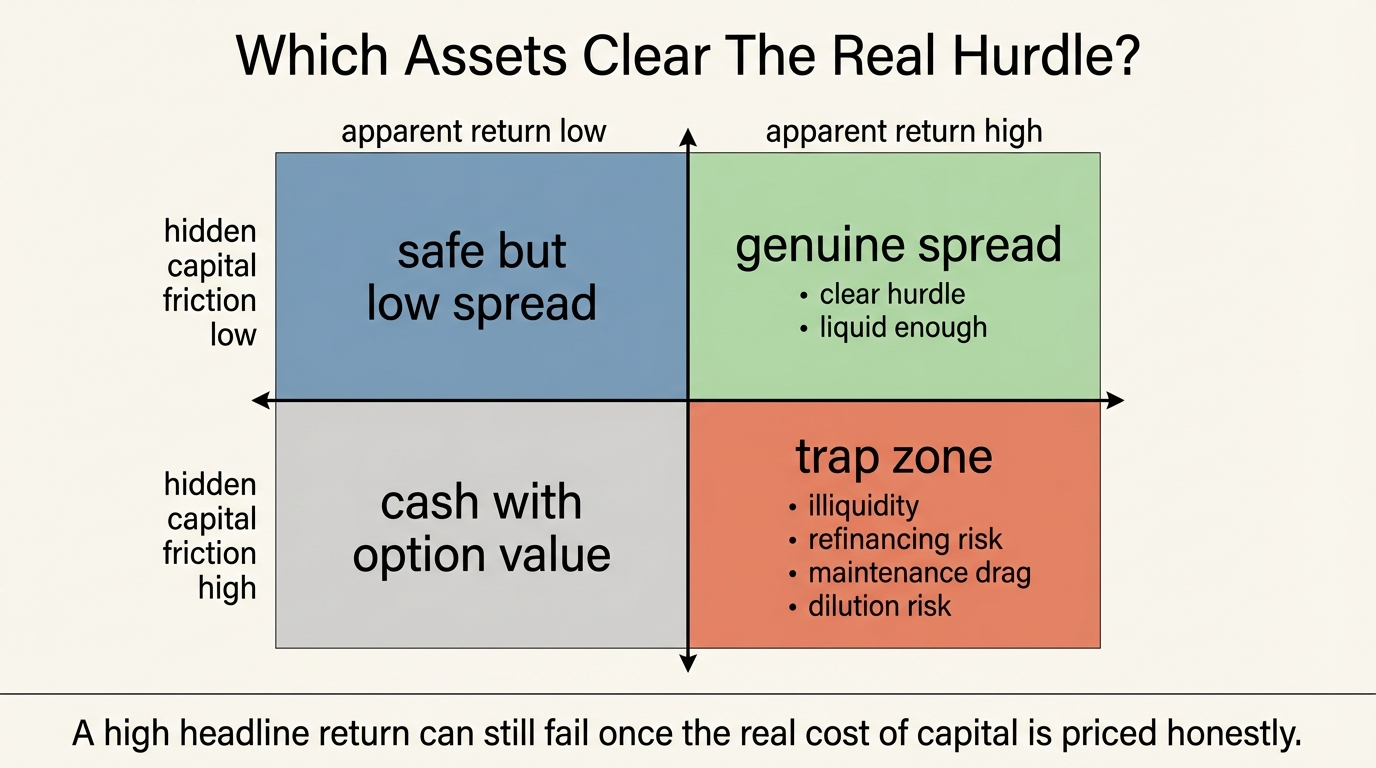
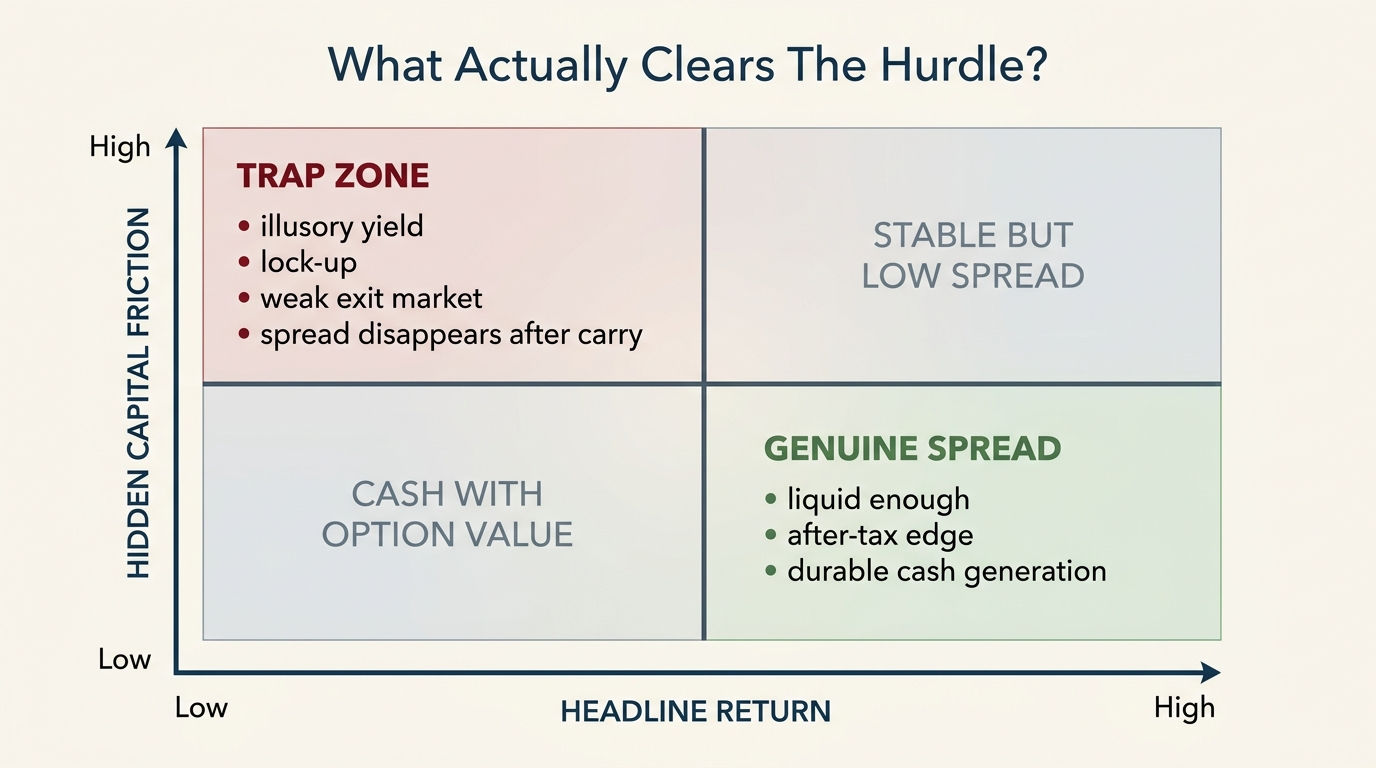
Refresh cost-of-capital longform

diff --git a/cost-of-capital-trap.html b/cost-of-capital-trap.html
@@ -90,7 +90,7 @@
     <p>The household version is similar. A homebuyer can correctly observe a mortgage rate and still underprice ownership because taxes, repairs, reserves, and transaction costs are not being capitalized honestly. A private-markets investor can understand that capital is locked for years and still underprice the opportunity cost of not having liquid reserves when better assets or personal shocks appear. The failure is not ignorance of rates. It is incomplete pricing of capital itself.</p>
 
     <h2>Housing Is One Of The Clearest Examples</h2>
-    <p>Housing debates often get trapped in price language. Is the house expensive. Is the rent too high. That framing is weaker than the underlying economics. User-cost research in housing has long argued that the relevant question is not only price, but the full annualized cost of owning the housing service stream, including financing, taxes, depreciation, maintenance, and expected price dynamics. Poterba's owner-occupied housing framework made this point decades ago, and later work continued to show that tenure choice becomes clearer when uncertainty and user cost are modeled directly.</p>
+    <p>Housing debates often get trapped in price language. The common questions are whether the house looks expensive and whether the rent looks too high. That framing is weaker than the underlying economics. User-cost research in housing has long argued that the relevant question is not only price, but the full annualized cost of owning the housing service stream, including financing, taxes, depreciation, maintenance, and expected price dynamics. Poterba's owner-occupied housing framework made this point decades ago, and later work continued to show that tenure choice becomes clearer when uncertainty and user cost are modeled directly.</p>
 
     <p>That is why a household can be correct that mortgage rates matter and still make a bad ownership decision. The cost-of-capital trap in housing appears when buyers treat the mortgage rate as the whole hurdle and neglect the capital tied up in down payment, maintenance reserves, property-tax exposure, mobility loss, and the return that same capital could have earned elsewhere. WealthMeter readers already see parts of this in the rent-versus-buy reversal and mortgage lock-in problems. The missing layer is that both are expressions of the same capital-pricing mistake.</p>
 
@@ -113,7 +113,7 @@
 
     <p>This is why the cost-of-capital trap often pairs with the liquidity illusion. Investors focus on the cost of holding cash and ignore the cost of not having it. The latter includes forced selling, inability to refinance, missed dislocations, and weaker bargaining power during personal or market stress. Capital that is liquid can be redeployed into high-spread opportunities precisely when trapped capital cannot move.</p>
 
-    <p>The relevant question is therefore comparative. Is cash under-earning relative to low-risk alternatives, or is it appropriately earning an option value that supports the rest of the balance sheet. A spreadsheet that only compares nominal yields will often answer that question incorrectly.</p>
+    <p>The relevant question is therefore comparative. Is cash under-earning relative to low-risk alternatives, or is it appropriately earning an option value that supports the rest of the balance sheet? A spreadsheet that only compares nominal yields will often answer that question incorrectly.</p>
 
     <h2>Where Households Misprice The Hurdle Most Often</h2>
     <ul>

diff --git a/scripts/generate_2026_04_17_wealthmeter_longform_images_nanobanana.py b/scripts/generate_2026_04_17_wealthmeter_longform_images_nanobanana.py
@@ -1,0 +1,161 @@
+#!/usr/bin/env python3
+"""Generate Nano Banana Pro visuals for the 2026-04-17 WealthMeter longform article."""
+
+from __future__ import annotations
+
+import argparse
+import base64
+import json
+import os
+import time
+from pathlib import Path
+from typing import Any
+from urllib.error import HTTPError, URLError
+from urllib.request import Request, urlopen
+
+ROOT = Path(__file__).resolve().parents[1]
+OUT_DIR = ROOT / "images" / "longform"
+ARTIFACT_DIR = ROOT / "output" / "review" / "longform-pair-2026-04-17" / "wealthmeter-nanobanana"
+OUT_DIR.mkdir(parents=True, exist_ok=True)
+ARTIFACT_DIR.mkdir(parents=True, exist_ok=True)
+
+API_URL_TMPL = (
+    "https://generativelanguage.googleapis.com/v1beta/models/"
+    "nano-banana-pro-preview:generateContent?key={api_key}"
+)
+
+STYLE_BLOCK = (
+    "Institutional editorial infographic only. Use a clean white or warm-white background. "
+    "Use only crisp, highly legible sans typography. Minimalist systems aesthetic. "
+    "No logos, no watermarks, no decorative clutter, no fake user-interface chrome, no photorealism. "
+    "Landscape 16:9 format, publication quality, with labels large enough to read."
+)
+
+PROMPTS: list[dict[str, str]] = [
+    {
+        "name": "cost-of-capital-hurdle-stack.png",
+        "title": "Cost of Capital Hurdle Stack Refresh",
+        "prompt": (
+            "Create a 16:9 editorial stack diagram titled "
+            "'The Real Cost Of Capital'. "
+            "Use six clean horizontal layers labeled "
+            "'headline rate', 'credit spread or equity premium', 'tax drag', "
+            "'fees and maintenance carry', 'liquidity lock-up', and 'refinancing or exit risk'. "
+            "Place three side callouts pointing to the full stack labeled "
+            "'housing', 'private funds', and 'operating business capital'. "
+            "Add a footer line reading 'Assets fail when returns clear the sticker price but not the full hurdle.'"
+        ),
+    },
+    {
+        "name": "cost-of-capital-allocation-grid.png",
+        "title": "Cost of Capital Allocation Grid Refresh",
+        "prompt": (
+            "Create a 16:9 editorial matrix titled "
+            "'What Actually Clears The Hurdle?'. "
+            "Use a 2x2 grid with horizontal axis 'headline return' and vertical axis 'hidden capital friction'. "
+            "Label the quadrants 'stable but low spread', 'genuine spread', 'cash with option value', and 'trap zone'. "
+            "Inside the trap zone include concise labels 'illusory yield', 'lock-up', 'weak exit market', and 'spread disappears after carry'. "
+            "Inside the genuine spread zone include 'liquid enough', 'after-tax edge', and 'durable cash generation'. "
+            "Keep the layout crisp, calm, and highly legible."
+        ),
+    },
+]
+
+
+def payload(prompt_text: str) -> dict[str, Any]:
+    return {
+        "contents": [{"parts": [{"text": prompt_text}]}],
+        "generationConfig": {"responseModalities": ["TEXT", "IMAGE"]},
+    }
+
+
+def call_model(api_key: str, prompt_text: str) -> dict[str, Any]:
+    req = Request(
+        API_URL_TMPL.format(api_key=api_key),
+        data=json.dumps(payload(prompt_text)).encode("utf-8"),
+        headers={"Content-Type": "application/json"},
+        method="POST",
+    )
+    with urlopen(req, timeout=240) as resp:
+        return json.loads(resp.read().decode("utf-8"))
+
+
+def extract_image_bytes(resp: dict[str, Any]) -> bytes | None:
+    for cand in resp.get("candidates", []):
+        content = cand.get("content", {})
+        for part in content.get("parts", []):
+            inline = part.get("inlineData") or part.get("inline_data")
+            if inline and inline.get("data"):
+                return base64.b64decode(inline["data"])
+    return None
+
+
+def extract_text(resp: dict[str, Any]) -> str:
+    chunks: list[str] = []
+    for cand in resp.get("candidates", []):
+        content = cand.get("content", {})
+        for part in content.get("parts", []):
+            if "text" in part:
+                chunks.append(part["text"])
+    return "\n".join(chunks).strip()
+
+
+def main() -> int:
+    parser = argparse.ArgumentParser()
+    parser.add_argument("--api-key", default=os.getenv("GOOGLE_API_KEY", ""))
+    parser.add_argument("--sleep", type=float, default=1.5)
+    parser.add_argument("--max-retries", type=int, default=3)
+    args = parser.parse_args()
+
+    if not args.api_key:
+        raise SystemExit("Missing API key. Set GOOGLE_API_KEY or pass --api-key.")
+
+    ok = 0
+    for idx, item in enumerate(PROMPTS, start=1):
+        prompt_text = f"Create an infographic. {item['title']}. {item['prompt']} {STYLE_BLOCK}"
+        out_png = OUT_DIR / item["name"]
+        out_json = ARTIFACT_DIR / item["name"].replace(".png", ".json")
+        out_txt = ARTIFACT_DIR / item["name"].replace(".png", ".txt")
+        out_prompt = ARTIFACT_DIR / item["name"].replace(".png", ".prompt.txt")
+        out_prompt.write_text(prompt_text)
+
+        last_err = ""
+        for attempt in range(1, args.max_retries + 1):
+            try:
+                resp = call_model(args.api_key, prompt_text)
+                out_json.write_text(json.dumps(resp, indent=2))
+                out_txt.write_text(extract_text(resp) or "")
+                img = extract_image_bytes(resp)
+                if img:
+                    out_png.write_bytes(img)
+                    if out_png.stat().st_size > 20_000:
+                        ok += 1
+                        print(f"[{idx:02d}/{len(PROMPTS)}] OK {item['name']} ({out_png.stat().st_size} bytes)")
+                        break
+                    last_err = "image too small"
+                else:
+                    last_err = "no inline image in response"
+            except HTTPError as e:
+                try:
+                    detail = e.read().decode("utf-8", errors="ignore")
+                except Exception:
+                    detail = str(e)
+                last_err = f"HTTPError {e.code}: {detail[:400]}"
+            except URLError as e:
+                last_err = f"URLError: {e}"
+            except Exception as e:
+                last_err = str(e)
+
+            print(f"[{idx:02d}/{len(PROMPTS)}] attempt {attempt} failed: {last_err}")
+            time.sleep(args.sleep)
+        else:
+            print(f"[{idx:02d}/{len(PROMPTS)}] FAILED {item['name']}: {last_err}")
+
+        time.sleep(args.sleep)
+
+    print(f"Generated {ok}/{len(PROMPTS)} images to {OUT_DIR}")
+    return 0 if ok == len(PROMPTS) else 1
+
+
+if __name__ == "__main__":
+    raise SystemExit(main())
